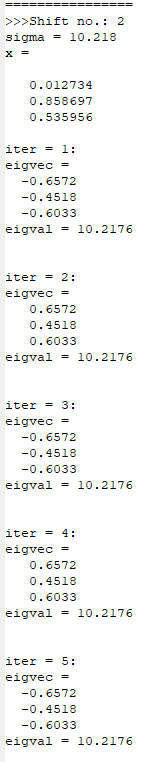
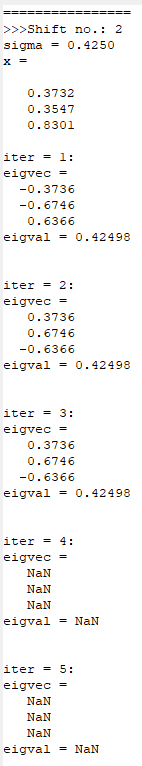
fixed typo

diff --git a/1_ev/E14.m b/1_ev/E14.m
@@ -1,13 +1,13 @@
-A = [-4 10 8; 10 -7 2; 8 -2 3];
+A = [-4 10 8; 10 -7 -2; 8 -2 3];
 [V,D] = eig(A)
 n = length(A);
 I = eye(n);
 eigvals = diag(D);
-len = length(eigvals)
+len = length(eigvals);
 for i=1:len
   disp([">>>Shift no.: ", num2str(i)])
   sigma = diag(D)(i) #initial shift using the value from eig(A)
-  x = rand(n,1) #random pick
+  x = rand(n,1); #random pick
   [x, sigma] = inverse_iteration(A, I, x, sigma, 5)
   disp("================")
 end
